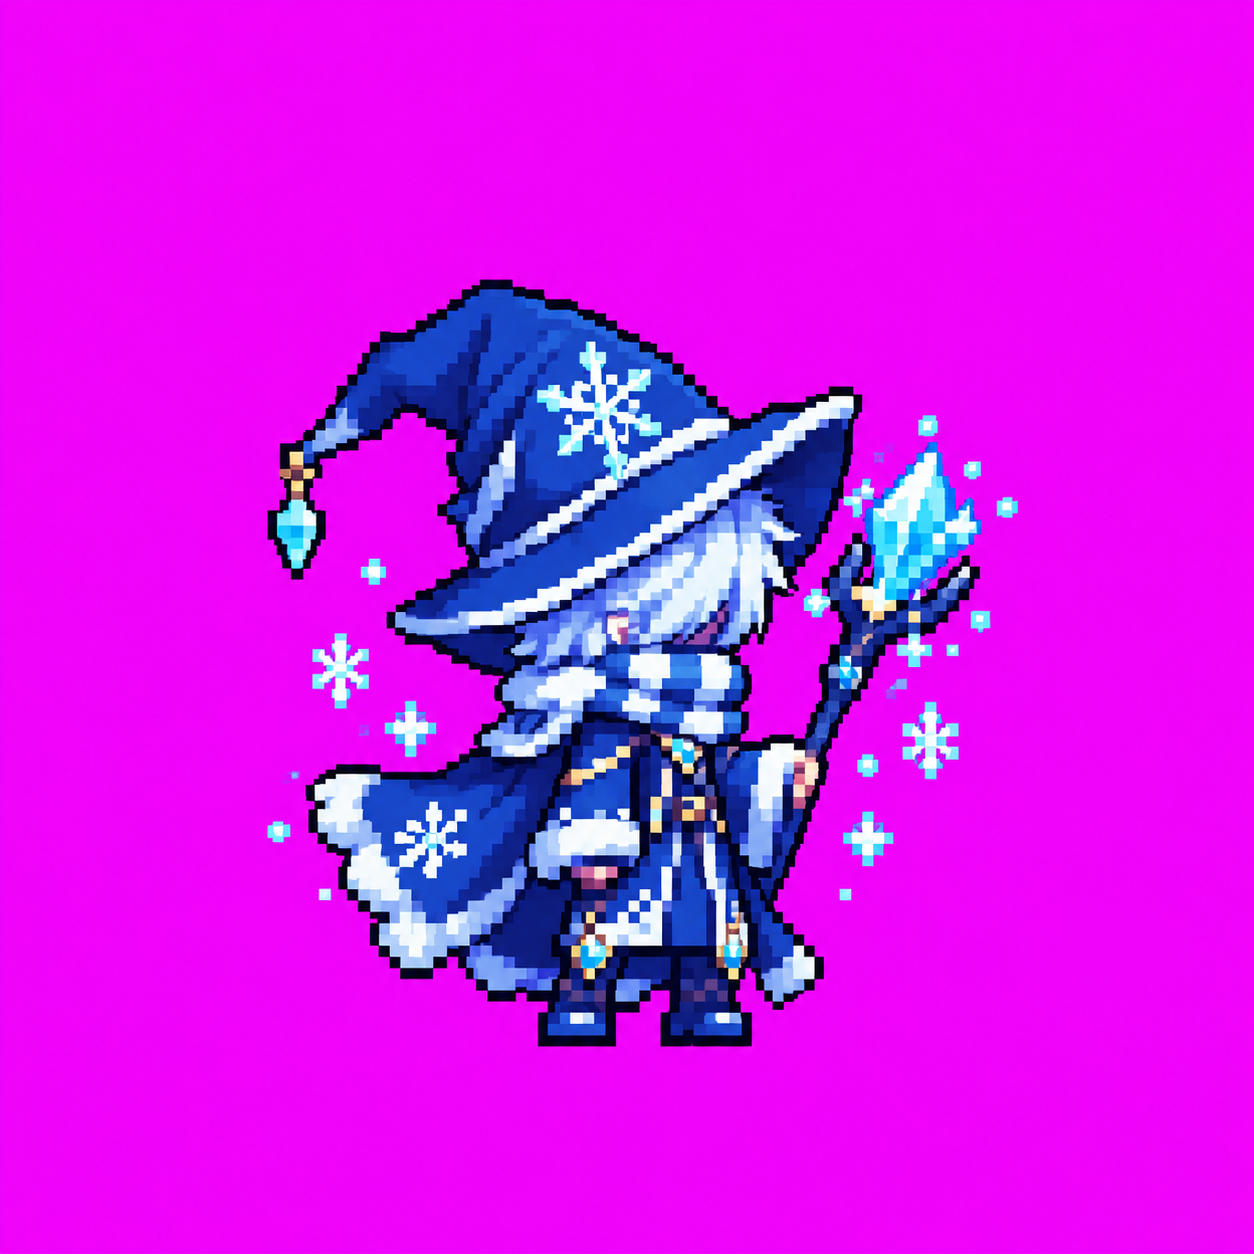
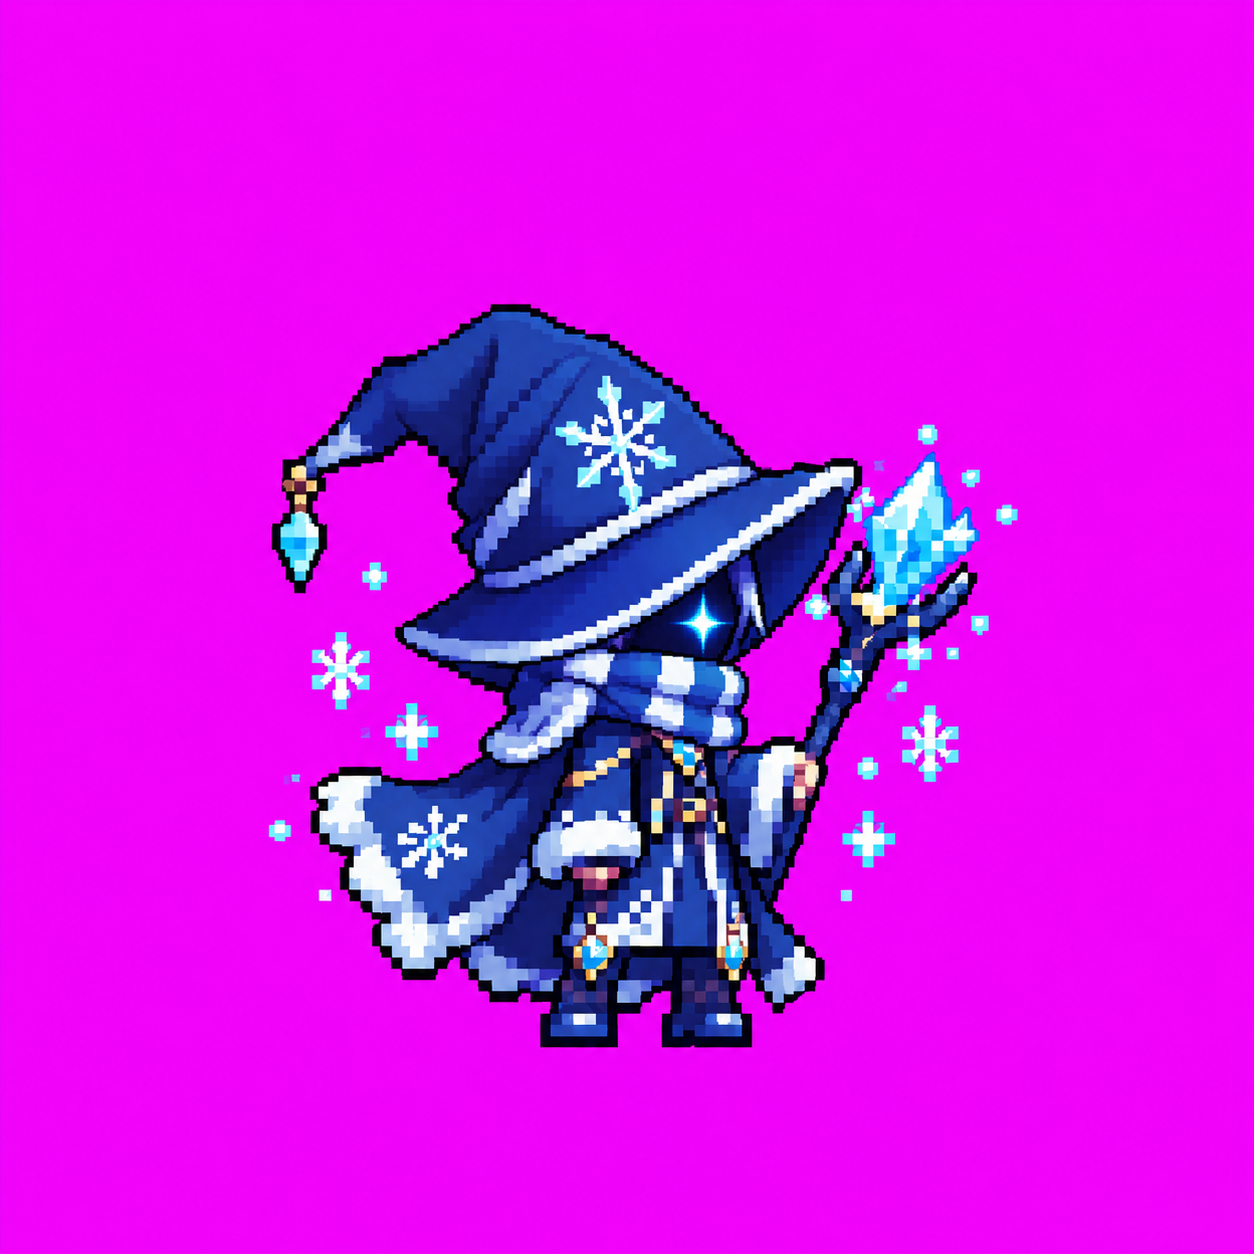
노엘 일러스트 교체 (목도리+고깔모자 버전)
Claude-Session: https://claude.ai/code/session_01Fxb29UthuHm5NupsxcALjM

Changed region(s): [[0.1866, 0.2177, 0.8086, 0.8397]]

diff --git a/index.html b/index.html
@@ -8,22 +8,22 @@
   <link rel="preconnect" href="https://fonts.googleapis.com">
   <link rel="preconnect" href="https://fonts.gstatic.com" crossorigin>
   <link href="https://fonts.googleapis.com/css2?family=Black+Han+Sans&family=Noto+Sans+KR:wght@400;700;900&display=swap" rel="stylesheet">
-  <link rel="stylesheet" href="style.css?v=202610191409">
-  <script>window.__ASSET_V = '202610191409';</script>
+  <link rel="stylesheet" href="style.css?v=202610191416">
+  <script>window.__ASSET_V = '202610191416';</script>
   <script type="importmap">
   {
     "imports": {
-      "./src/data.js": "./src/data.js?v=202610191409",
-      "./src/maps.js": "./src/maps.js?v=202610191409",
-      "./src/sim.js": "./src/sim.js?v=202610191409",
-      "./src/fx.js": "./src/fx.js?v=202610191409",
-      "./src/render.js": "./src/render.js?v=202610191409",
-      "./src/audio.js": "./src/audio.js?v=202610191409",
-      "./src/net.js": "./src/net.js?v=202610191409",
-      "./src/save.js": "./src/save.js?v=202610191409",
-      "./src/ui.js": "./src/ui.js?v=202610191409",
-      "./src/cloud.js": "./src/cloud.js?v=202610191409",
-      "./src/config.js": "./src/config.js?v=202610191409"
+      "./src/data.js": "./src/data.js?v=202610191416",
+      "./src/maps.js": "./src/maps.js?v=202610191416",
+      "./src/sim.js": "./src/sim.js?v=202610191416",
+      "./src/fx.js": "./src/fx.js?v=202610191416",
+      "./src/render.js": "./src/render.js?v=202610191416",
+      "./src/audio.js": "./src/audio.js?v=202610191416",
+      "./src/net.js": "./src/net.js?v=202610191416",
+      "./src/save.js": "./src/save.js?v=202610191416",
+      "./src/ui.js": "./src/ui.js?v=202610191416",
+      "./src/cloud.js": "./src/cloud.js?v=202610191416",
+      "./src/config.js": "./src/config.js?v=202610191416"
     }
   }
   </script>
@@ -43,6 +43,6 @@
     <div id="aug" hidden></div>
     <div id="menu" class="overlay"></div>
   </div>
-  <script type="module" src="./src/main.js?v=202610191409"></script>
+  <script type="module" src="./src/main.js?v=202610191416"></script>
 </body>
 </html>

diff --git a/src/data.js b/src/data.js
@@ -226,7 +226,7 @@ export const HERO_SPRITE = { size: 48, draw: 72, frames: 16, portrait: 64 };
 // 직접 그려 온 촘촘한 도트는 영웅마다 따로 (한 줄 16칸, 칸 크기 cell, 화면 배율 scale). 발끝은 칸 아래에서 2칸 위
 export const HERO_SHEETS = {
   archer: { file: 'hero_archer.png', cell: 72, scale: 1.0 },
-  mage: { file: 'hero_mage.png', cell: 80, scale: 1.0 },
+  mage: { file: 'hero_mage.png', cell: 104, scale: 0.78 },
   reaper: { file: 'hero_reaper.png', cell: 128, scale: 0.72 },
 };
 

diff --git a/tools/hero_art.py b/tools/hero_art.py
@@ -240,7 +240,7 @@ HEROES['mage'] = dict(
         '...............x...',
     ], pivot=(4, 3)),
     kind='staff', legs=('p', 'o', 'O'), arm='a', glove='c', behind=False,
-    sprite=dict(file='tools/art/mage.png', cell=80, scale=1.0, weapon_from=(50, 15), pivot=(50, 46), legs=(65, 34), face=(18, 8, 32),
+    sprite=dict(file='tools/art/mage.png', cell=104, scale=0.78, weapon_from=(71, 0), weapon_extra=((63, 31, 71, 60),), pivot=(64, 55), legs=(78, 47), face=(37, 21, 32),
                 ang=dict(rest=0, windup=-12, strike=8, follow=4, hurt=10, win=-15), push=dict(windup=-1, strike=2, follow=1)),
 )
 
